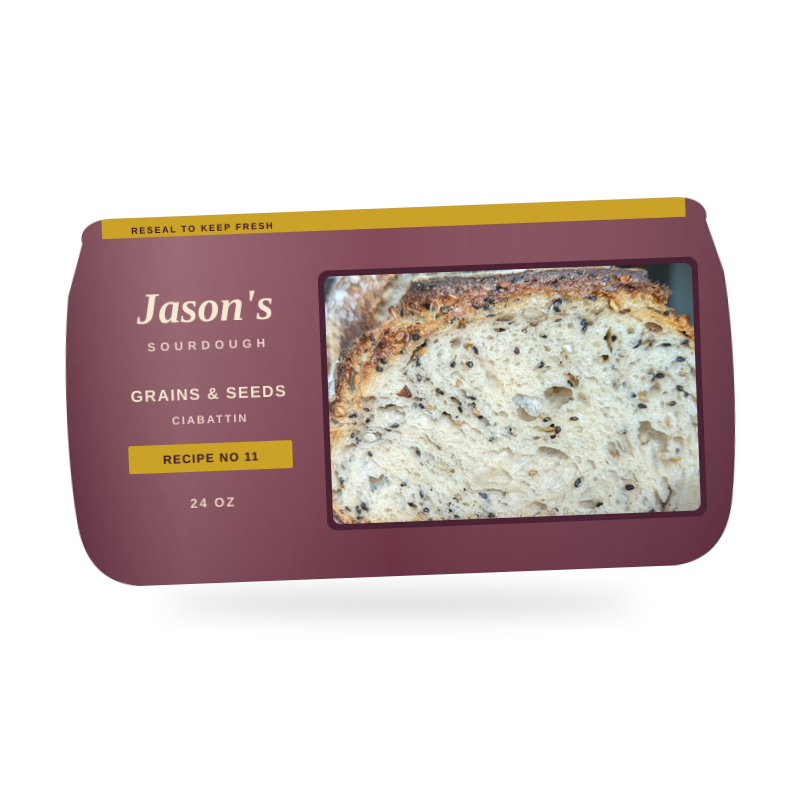
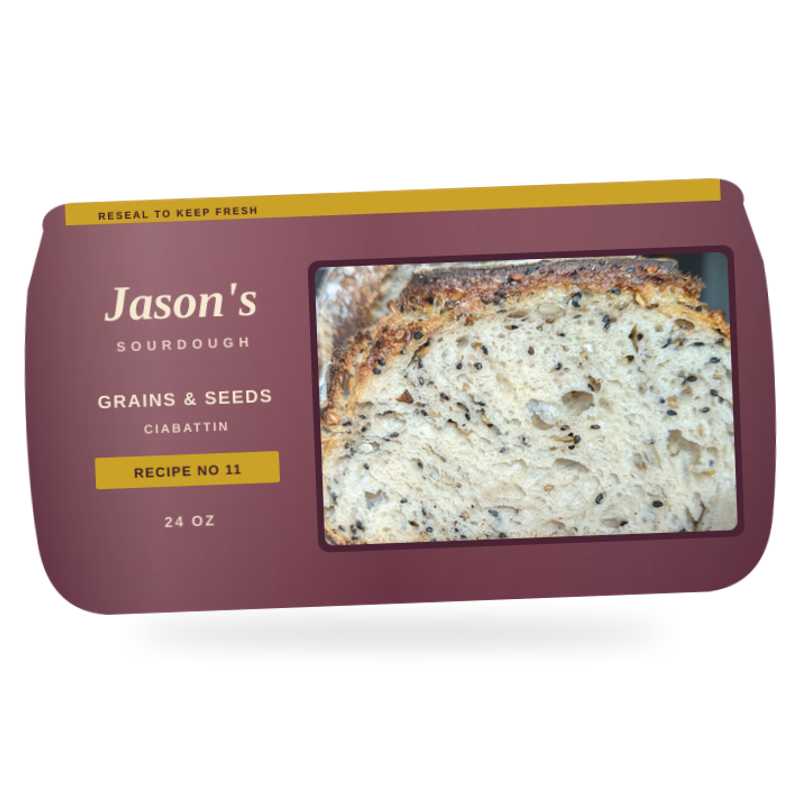
Fill the Jason's tile with the ciabattin sleeve
Scale the printed loaf bag to the same studio frame as the other
Same-Day pack shots so Bakery next to Kirk does not look empty.

Changed region(s): [[0.0312, 0.2188, 0.9688, 0.7812], [0.125, 0.3438, 0.3438, 0.4375]]

diff --git a/lib/data/products.ts b/lib/data/products.ts
@@ -303,7 +303,7 @@ export const products: Product[] = [
     price: 2.71,
     originalPrice: 4.0,
     savings: 1.29,
-    image: "/products/9.png?v=30",
+    image: "/products/9.png?v=31",
     inStock: true,
     tags: ["bakery"],
     rating: 3.9,
